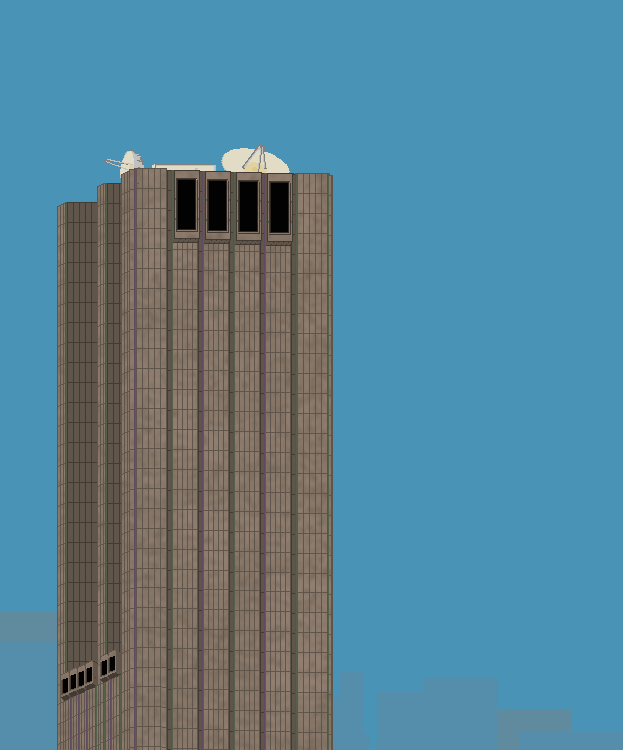
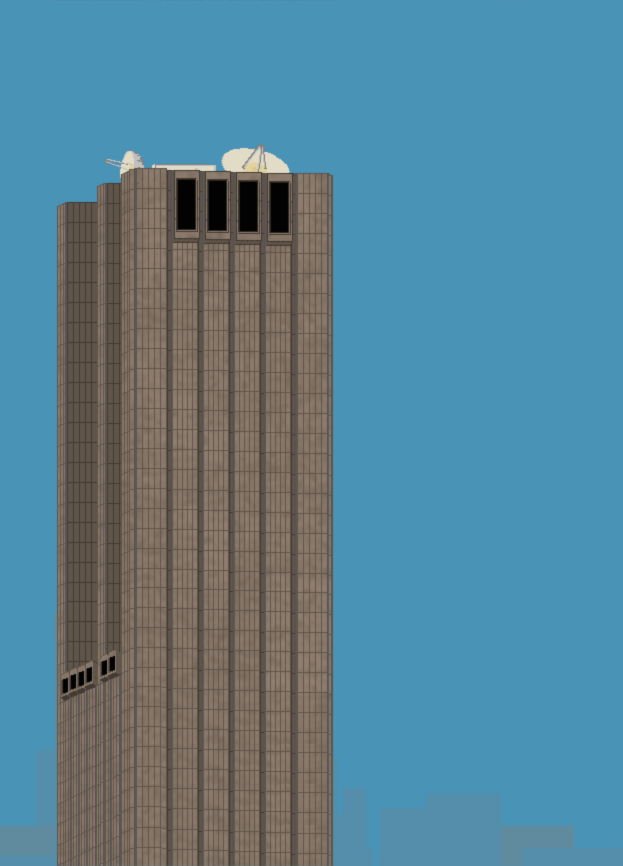
Made it work off system time, and editted longlines PNG to be taller, moved around text and building in intro screen

diff --git a/knollmaster.py b/knollmaster.py
@@ -5,6 +5,7 @@ import pygame.midi
 import pygame.mixer
 import math
 import random
+import time
 
 pygame.mixer.pre_init(44100, -16, 2, 512)
 pygame.init()
@@ -17,7 +18,7 @@ ctCambridge1 = pygame.font.Font('CtCambridge.ttf',252)
 resolutionX, resolutionY = pygame.display.list_modes()[0]
 screen = pygame.display.set_mode((resolutionX,resolutionY),pygame.FULLSCREEN)
 
-pygame.display.set_caption("Chadtech v5.00 : Knollmaster",)
+pygame.display.set_caption("Chadtech v5.01 : Knollmaster",)
 
 longlines = pygame.image.load('longlines.PNG').convert()
 
@@ -174,6 +175,7 @@ quit = False
 mouseDown = False
 jusUp=False
 anglin = False
+start=False
 
 carpetScroll = 0
 bob = 0
@@ -184,6 +186,8 @@ itemsOnSurface=[]
 
 timer = 500
 groupBlink = 0 
+
+howLongYouHaveToKnollEverything = 15
 
 ################################
 ##### Load items in level ######
@@ -213,10 +217,10 @@ while intro and not quit:
 
 	screen.fill((73,147,182))
 	lx,ly=longlines.get_size()
-	screen.blit(longlines,[0,resolutionY-ly])
+	screen.blit(longlines,[300,resolutionY-ly])
 
-	supercoolText('CHADTECH :',(resolutionX/2-700,resolutionY/2-400),double=True)
-	supercoolText('v5.00 -- KNOLLMASTER',(resolutionX/2-700,resolutionY/2-260),double=True)
+	supercoolText('CHADTECH :',(20,20),double=True)
+	supercoolText('v5.01 -- KNOLLMASTER',(20,160),double=True)
 
 	supercoolText('Press Any Key To Start',(resolutionX/2,resolutionY/2))
 
@@ -227,12 +231,18 @@ while intro and not quit:
 	pygame.display.flip()
 	clock.tick(30)
 
+now =(time.gmtime()[3]*(3600))+(time.gmtime()[4]*(60))+(time.gmtime()[5])
+beginningOfTime =0
+beginningOfTime+=now 
 
 while mainLoop and not quit:
+
+	now=(time.gmtime()[3]*(3600))+(time.gmtime()[4]*(60))+(time.gmtime()[5])
 
 	for yit in range((resolutionX/carpetX)+1):
 		for vapp in range((resolutionY/carpetY)+2):
 			screen.blit(carpetTile,[(carpetX*yit)+carpetScroll-48,(carpetY*vapp)+carpetScroll-48])
+
 	carpetScroll+=1
 	carpetScroll=carpetScroll%48
 
@@ -242,7 +252,10 @@ while mainLoop and not quit:
 		itemBlitter(item)
 
 	supercoolText('CHADTECH:KNOLLMASTER',(20,20+(8*math.sin(bob/4.))))
-	supercoolText('Time:'+str(timer),(20,93+(8*math.sin(bob/4.))))
+	if ((howLongYouHaveToKnollEverything+5)-(now-beginningOfTime))>0 and (howLongYouHaveToKnollEverything)>(((howLongYouHaveToKnollEverything+5)-(now-beginningOfTime))):
+		supercoolText('Time:'+str((howLongYouHaveToKnollEverything+5)-(now-beginningOfTime)),(20,93+(8*math.sin(bob/4.))))
+	else:
+		supercoolText('Time:0',(20,93+(8*math.sin(bob/4.))))
 	supercoolText("Press Q to quit",((resolutionX-485),20+(8*math.sin(bob/4.))))
 	if scoreTrigger:
 		lineNumber=3
@@ -261,7 +274,6 @@ while mainLoop and not quit:
 		supercoolText('Final Score = '+str(angleAve)[:6]+'%',(20,73*lineNumber+(8*math.sin(bob/4.))))
 		lineNumber+=1
 
-
 		if groupBlink<80:
 			if ((groupBlink/5)%2) == 1:
 				for item in itemsOnSurface:
@@ -271,8 +283,8 @@ while mainLoop and not quit:
 			groupBlink+=1
 	bob+=1
 
-	if not timer<1:
-		timer-=1
+	if (now-beginningOfTime)<(howLongYouHaveToKnollEverything+5):
+		pass
 	else:
 		if not scoreTrigger:
 			angleAve=0
@@ -348,64 +360,65 @@ while mainLoop and not quit:
 				amountCouldFit = numberTall*numberWide
 				excessSizeCou+=(amountCouldFit-numberOfInstances)
 
-
 			angleAve-=excessSizeCou*10
 			angleAve-=outOfBoundCou*25
 			angleAve-=overlapCou*25
 
 			scoreTrigger = True
+	if (now-beginningOfTime)>5:
+		for event in pygame.event.get():
 
+			if event.type == pygame.KEYDOWN:
+				if event.key == pygame.K_q:
+					mainLoop=False
 
+			##### If they click down
+			if event.type==pygame.MOUSEBUTTONDOWN:
+				##### Get mouse position
+				mouX,mouY = event.pos		
+				mouseDown = True
+				itemFound = False
+				##### Run through every item, and see if you clicked within its boundaries
+				for item in itemsOnSurface:
+					if (item.xPos-(item.itemType.xSize/2))<mouX<(item.xPos+(item.itemType.xSize/2)) and (item.yPos-(item.itemType.ySize/2))<mouY<(item.yPos+(item.itemType.ySize/2)):
+						itemFound = True
+						itemSelected=item
+				if not itemFound:
+					itemSelected=''
 
-	for event in pygame.event.get():
+			if event.type==pygame.MOUSEBUTTONUP:
+				mouX,mouY = event.pos
+				mouseDown = False
+				if type(itemSelected)!=str:
+					if leftBou<mouX-(itemSelected.itemType.xSize/2) and mouX+(itemSelected.itemType.xSize/2)<rightBou and topBou<mouY-(itemSelected.itemType.ySize/2) and mouY+(itemSelected.itemType.ySize/2)<botBou:
+						anglin = True
+					else:
+						mouseDown=True
 
-		if event.type == pygame.KEYDOWN:
-			if event.key == pygame.K_q:
+			if event.type == pygame.QUIT:
 				mainLoop=False
+				quit=True
 
-		##### If they click down
-		if event.type==pygame.MOUSEBUTTONDOWN:
-			##### Get mouse position
-			mouX,mouY = event.pos		
-			mouseDown = True
-			itemFound = False
-			##### Run through every item, and see if you clicked within its boundaries
-			for item in itemsOnSurface:
-				if (item.xPos-(item.itemType.xSize/2))<mouX<(item.xPos+(item.itemType.xSize/2)) and (item.yPos-(item.itemType.ySize/2))<mouY<(item.yPos+(item.itemType.ySize/2)):
-					itemFound = True
-					itemSelected=item
-			if not itemFound:
-				itemSelected=''
-
-		if event.type==pygame.MOUSEBUTTONUP:
-			mouX,mouY = event.pos
-			mouseDown = False
+		if mouseDown:
 			if type(itemSelected)!=str:
-				if leftBou<mouX-(itemSelected.itemType.xSize/2) and mouX+(itemSelected.itemType.xSize/2)<rightBou and topBou<mouY-(itemSelected.itemType.ySize/2) and mouY+(itemSelected.itemType.ySize/2)<botBou:
-					anglin = True
-				else:
-					mouseDown=True
+				mouX,mouY = pygame.mouse.get_pos()
+				itemSelected.xPos,itemSelected.yPos = mouX,mouY
 
-		if event.type == pygame.QUIT:
-			mainLoop=False
-			quit=True
-
-	if mouseDown:
-		if type(itemSelected)!=str:
+		if anglin:
 			mouX,mouY = pygame.mouse.get_pos()
-			itemSelected.xPos,itemSelected.yPos = mouX,mouY
+			if type(itemSelected)!=str:
+				relX = mouX-itemSelected.xPos
+				relY = mouY-itemSelected.yPos
+				if relY>0:
+					itemSelected.angle=(math.degrees(math.atan(float(relX)/float(relY))))+180
+				elif 0>relY:
+					itemSelected.angle=(math.degrees(math.atan(float(relX)/float(relY))))
 
-	if anglin:
-		mouX,mouY = pygame.mouse.get_pos()
-		if type(itemSelected)!=str:
-			relX = mouX-itemSelected.xPos
-			relY = mouY-itemSelected.yPos
-			if relY>0:
-				itemSelected.angle=(math.degrees(math.atan(float(relX)/float(relY))))+180
-			elif 0>relY:
-				itemSelected.angle=(math.degrees(math.atan(float(relX)/float(relY))))
+	else:
+		supercoolText(str(6-(now-beginningOfTime)),(resolutionX/2,resolutionY/2),double=True)
 
-	
+
+
 
 	pygame.display.flip()
 	clock.tick(30)
